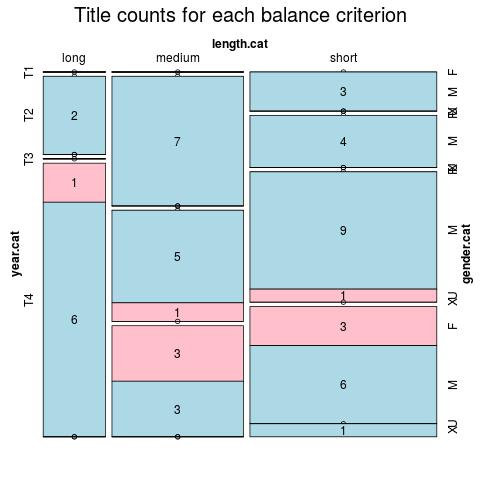
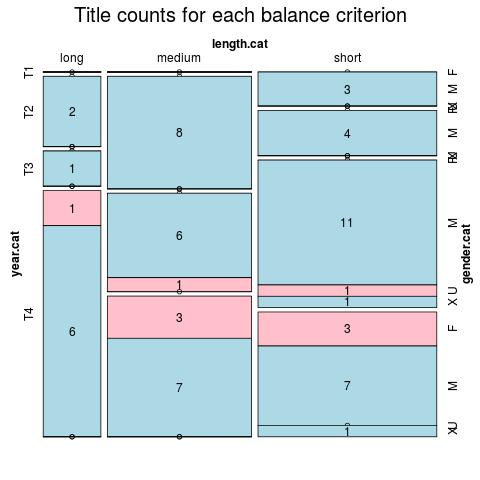
updatew rom

diff --git a/ELTeC/rom/index.html b/ELTeC/rom/index.html
@@ -5,7 +5,7 @@
       <title>Contents of ELTeC-rom</title>
    </head>
    <body>
-      <h4>On 2020-03-30 rom has 55 texts containing 3254245 words</h4>
+      <h4>On 2020-04-03 rom has 66 texts containing 3901964 words</h4>
       <p class="graphic"><img src="mosaic.png"><input type="button" value="Explainer" onclick="window.open('../explainer.html','popUpWindow',         'height=600,width=500,left=100,top=100,resizable=yes,         scrollbars=yes,toolbar=no,menubar=no,location=no,directories=no, status=yes');"></p>
       <p class="explain">Click on a column heading to sort. Click on a text identifier to
          read the text (may not work in older browsers).
@@ -104,9 +104,9 @@
             <td>30119</td>
             <td>(short) </td>
             <td>1892 (T3) </td>
-            <td></td>
-            <td></td>
-            <td>M</td>
+            <td>Corbea. Istorie originală ilustrată cu 7 gravuri</td>
+            <td>Stoenescu, Stefan (psedo?)</td>
+            <td>X</td>
             <td>low</td>
          </tr>
          <tr>
@@ -578,6 +578,142 @@
             <td> Prasin, Spiru(1864-1904)</td>
             <td>M</td>
             <td>low</td>
+         </tr>
+         <tr>
+            <td><a href="ROM048.html">ROM048</a></td>
+            <td>eltec-1</td>
+            <td>201</td>
+            <td>53514</td>
+            <td>(medium) </td>
+            <td>1891 (T3) </td>
+            <td> Avram Iancu, regele Carpaţilor, continuatorul operii lui Horia. Roman istoric, după
+               publicaţiuni şi comunicări date de martori oculari şi părtaşi la lupte 
+            </td>
+            <td> Pop Florantin, Ioan (1843-1936) </td>
+            <td>M</td>
+            <td></td>
+         </tr>
+         <tr>
+            <td><a href="ROM049.html">ROM049</a></td>
+            <td>eltec-1</td>
+            <td>63</td>
+            <td>10408</td>
+            <td>(short) </td>
+            <td>1882 (T3) </td>
+            <td> Decebal. Nuvelă istorică </td>
+            <td> Pop Florantin, Ioan (1843-1936)</td>
+            <td>M</td>
+            <td></td>
+         </tr>
+         <tr>
+            <td><a href="ROM050.html">ROM050</a></td>
+            <td>eltec-1</td>
+            <td>110</td>
+            <td>28916</td>
+            <td>(short) </td>
+            <td>1885 (T3) </td>
+            <td> Horea. Roman original (după actele istorice publicate de A. Papiu, A. Odobescu, N.
+               Densușianu, și tradiție)
+            </td>
+            <td> Pop-Florantin, Ion (1843-1936) </td>
+            <td>M</td>
+            <td>low</td>
+         </tr>
+         <tr>
+            <td><a href="ROM051.html">ROM051</a></td>
+            <td>eltec-1</td>
+            <td>119</td>
+            <td>36383</td>
+            <td>(short) </td>
+            <td>1883 (T3) </td>
+            <td>COLIBA MĂRIUCĂI. Roman naţional</td>
+            <td> Urechia, V. A (1834-1901)</td>
+            <td>M</td>
+            <td></td>
+         </tr>
+         <tr>
+            <td><a href="ROM052.html">ROM052</a></td>
+            <td>eltec-1</td>
+            <td>110</td>
+            <td>28356</td>
+            <td>(short) </td>
+            <td>1907 (T4) </td>
+            <td> TĂNASE SCATIU. Roman</td>
+            <td> Zamfirescu, Duiliu (1858-1922)</td>
+            <td>M</td>
+            <td></td>
+         </tr>
+         <tr>
+            <td><a href="ROM053.html">ROM053</a></td>
+            <td>eltec-1</td>
+            <td>213</td>
+            <td>51974</td>
+            <td>(medium) </td>
+            <td>1902 (T4) </td>
+            <td> În Războiu. Roman</td>
+            <td> Zamfirescu, Duiliu (1858-1922)</td>
+            <td>M</td>
+            <td></td>
+         </tr>
+         <tr>
+            <td><a href="ROM054.html">ROM054</a></td>
+            <td>eltec-1</td>
+            <td>360</td>
+            <td>78337</td>
+            <td>(medium) </td>
+            <td>1904 (T4) </td>
+            <td> VALEA ALBĂ. Roman eroic. 1476 </td>
+            <td> Becescu-Silvan, Gh. (1875-1924)</td>
+            <td>M</td>
+            <td></td>
+         </tr>
+         <tr>
+            <td><a href="ROM055.html">ROM055</a></td>
+            <td>eltec-1</td>
+            <td>360</td>
+            <td>52745</td>
+            <td>(medium) </td>
+            <td>1906 (T4) </td>
+            <td> Pentru Neatîrnare 1877-78. Roman răsboinic </td>
+            <td> Becescu-Silvan, Gh. (1875-1924)</td>
+            <td>M</td>
+            <td></td>
+         </tr>
+         <tr>
+            <td><a href="ROM055.html">ROM055</a></td>
+            <td>eltec-1</td>
+            <td>971</td>
+            <td>202851</td>
+            <td>(long) </td>
+            <td>1904 (T3) </td>
+            <td>Cu paloșul. Poveste vitejască din vremea descălecatului Moldovei </td>
+            <td>Rosetti, Radu (1853-1926)</td>
+            <td>M</td>
+            <td></td>
+         </tr>
+         <tr>
+            <td><a href="ROM057.html">ROM057</a></td>
+            <td>eltec-1</td>
+            <td>182</td>
+            <td>69118</td>
+            <td>(medium) </td>
+            <td>1912 (T4) </td>
+            <td>Păcatele Sulgeriului</td>
+            <td>Rosetti, Radu </td>
+            <td>M</td>
+            <td></td>
+         </tr>
+         <tr>
+            <td><a href="ROM058.html">ROM058</a></td>
+            <td>eltec-1</td>
+            <td>164</td>
+            <td>35117</td>
+            <td>(medium)  !!</td>
+            <td> (T2) </td>
+            <td>Misterul din Turnul Eiffel sau resbunarea unei principese ruse </td>
+            <td>Alexandrescu, Alexandru I.</td>
+            <td>M</td>
+            <td></td>
          </tr>
          <tr>
             <td><a href="ROM070.html">ROM070</a></td>

diff --git a/ELTeC/rom/ROM007.html b/ELTeC/rom/ROM007.html
@@ -8,7 +8,7 @@
                 'https://raw.githubusercontent.com/COST-ELTeC/ELTeC-rom/master/level1/ROM007.xml', 
                 function(data) {
                 document.getElementsByTagName("body")[0].appendChild(data);
-                });</script><title>Corbea. Istorie originală ilustrată cu 7 gravuri</title>
+                });</script><title>Corbea. Istorie originală ilustrată cu 7 gravuri: ediție ELTeC</title>
    </head>
    <body><a href="https://www.distant-reading.net/"><img src="../../media/distantreading.png" alt="logo"></a></body>
 </html>
